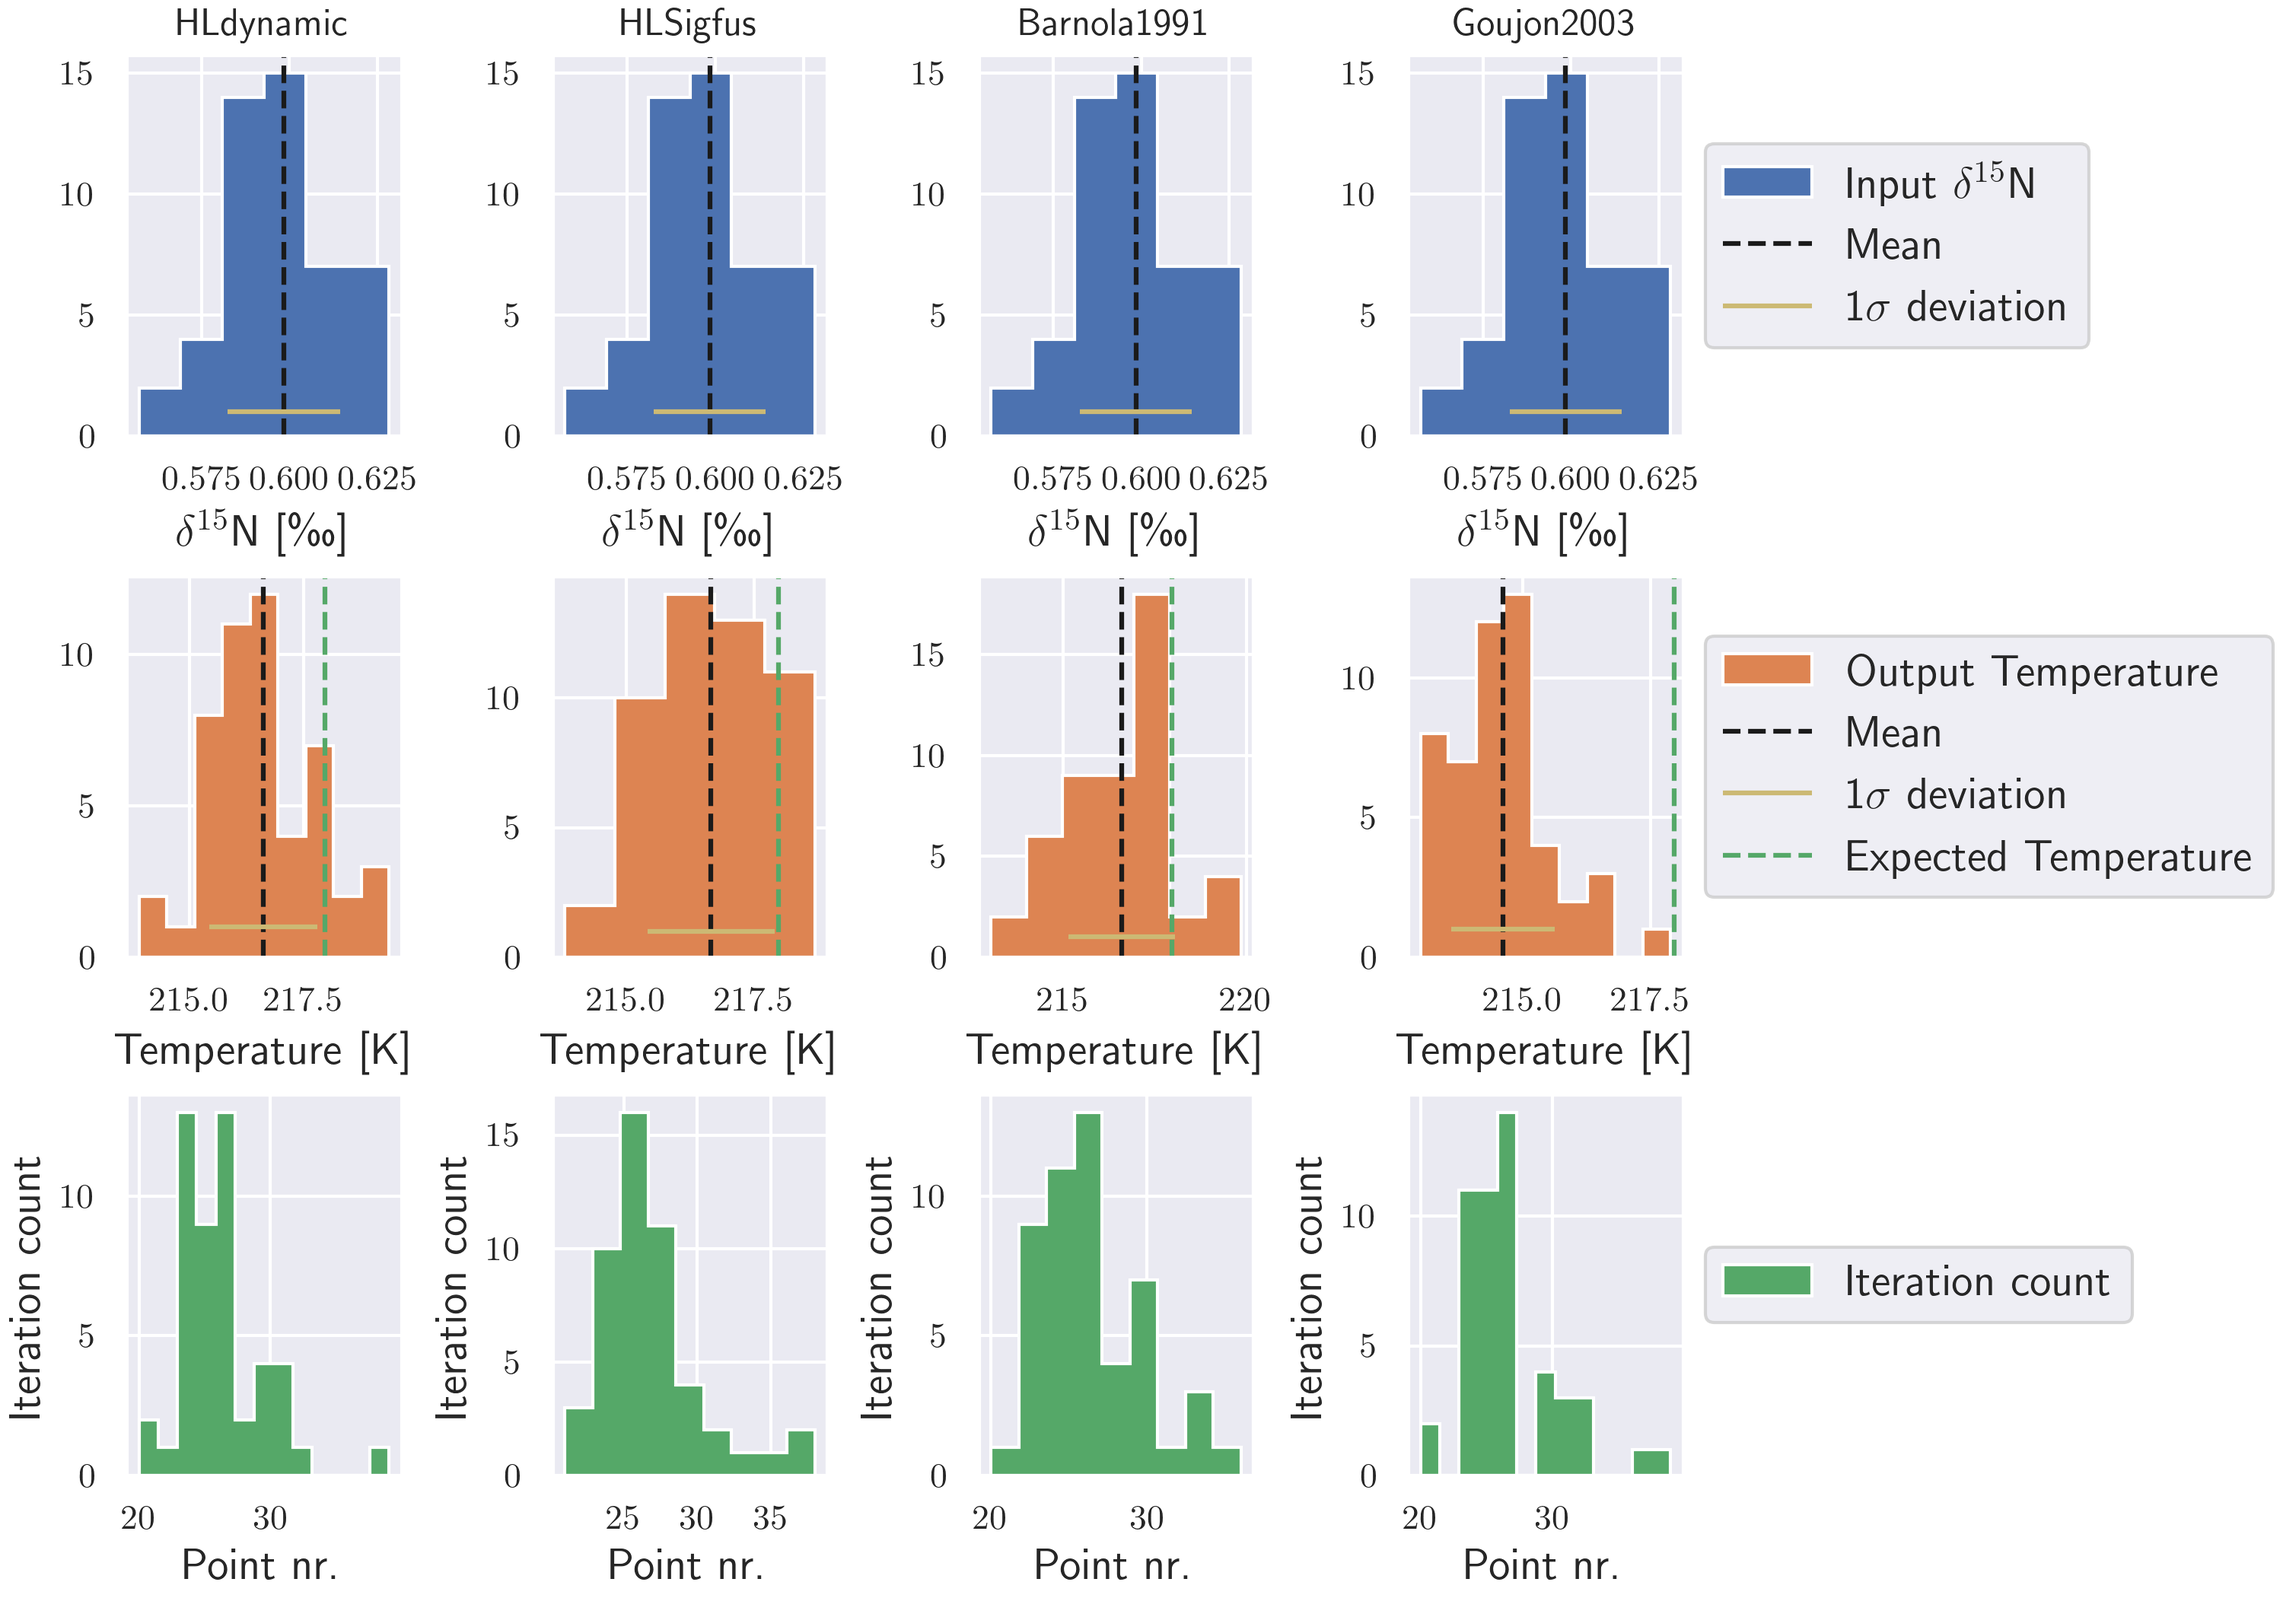
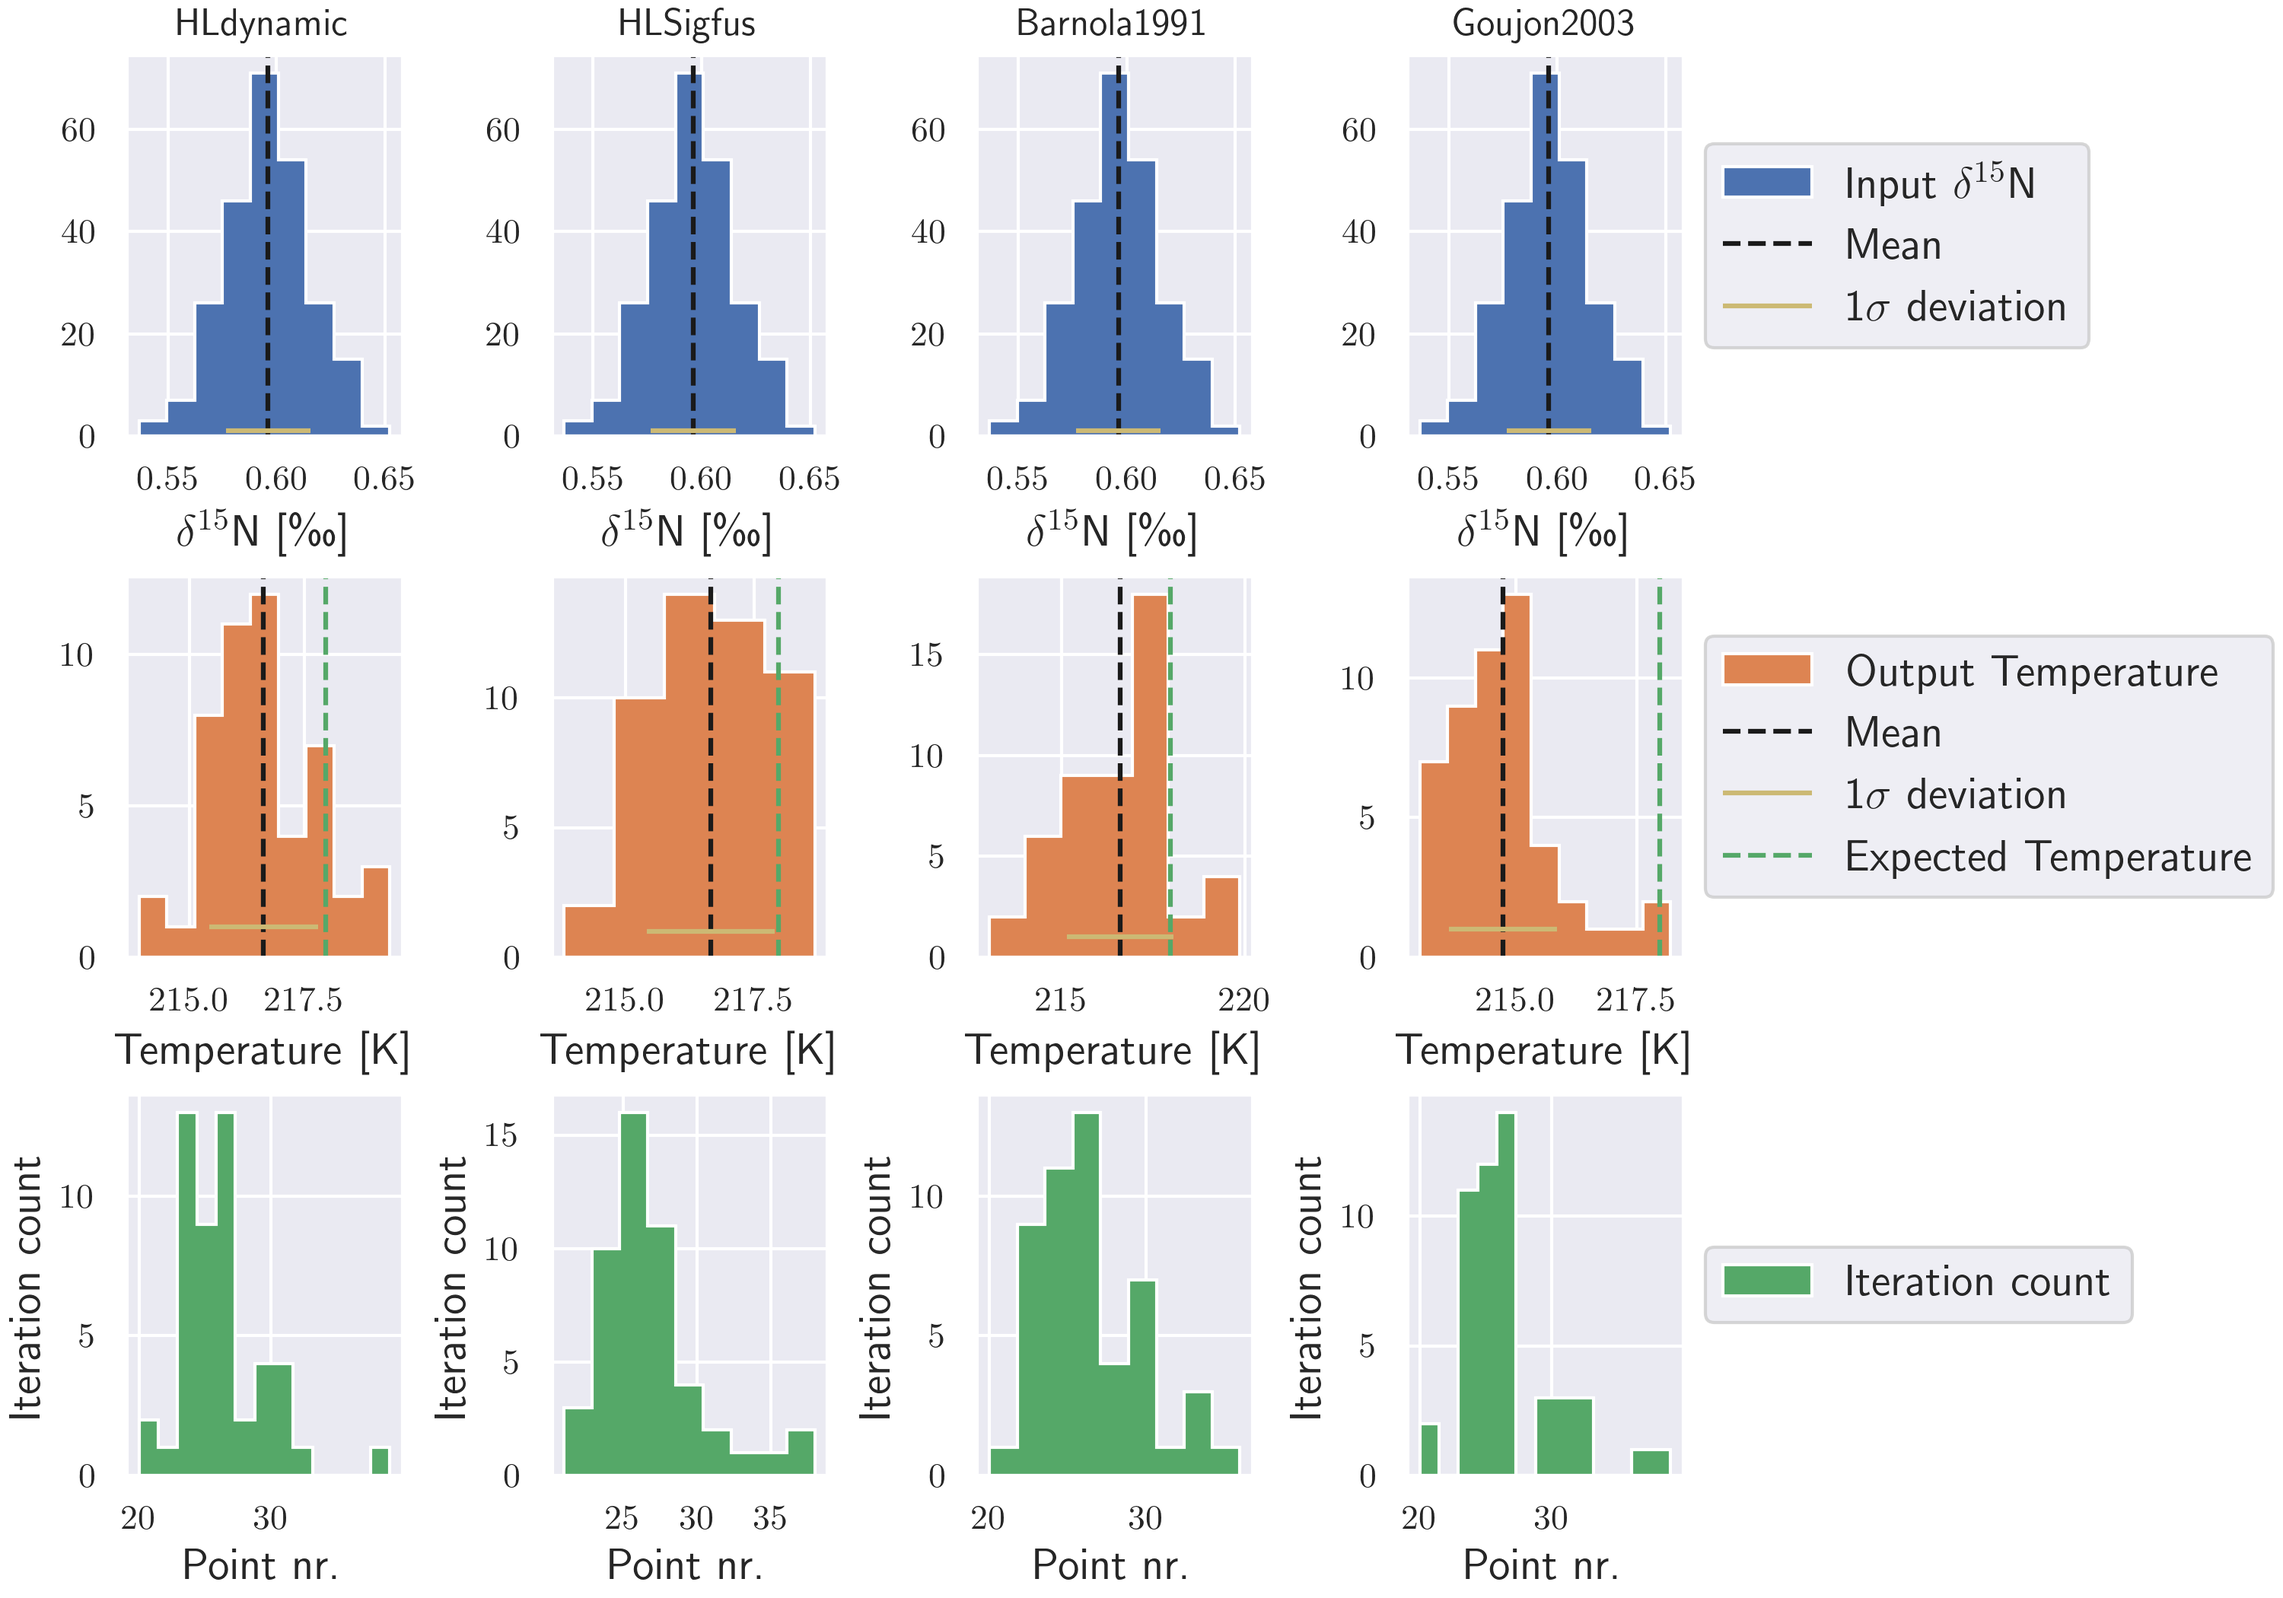
Test

diff --git a/Python/Optimization/Stuff.tex b/Python/Optimization/Stuff.tex
@@ -8,13 +8,13 @@
  &  & Mean & $\sigma$ & Mean & $\sigma$ & Mean & $\sigma$ & Mean & $\sigma$ \\
 \midrule
 \multirow[c]{4}{*}{Temp} & Dist1 & 221.01 & 1.4 & 221.27 & 1.4 & 220.84 & 1.6 & 219.05 & 1.4 \\
- & Dist2 & 216.61 & 1.2 & 216.65 & 1.2 & 216.6 & 1.4 & 214.62 & 1.0 \\
+ & Dist2 & 216.61 & 1.2 & 216.65 & 1.2 & 216.6 & 1.4 & 214.73 & 1.1 \\
  & Dist3 & 236.22 & 2.7 & 236.16 & 2.4 & 235.63 & 2.0 & 218.01 & 55.7 \\
- & Dist4 & 247.54 & 5.0 & 248.6 & 4.9 & 247.5 & 3.9 & 218.03 & 73.5 \\
-\multirow[c]{4}{*}{Nitrogen} & Dist1 & 0.525 & 0.02 & 0.525 & 0.02 & 0.525 & 0.02 & 0.525 & 0.02 \\
- & Dist2 & 0.598 & 0.02 & 0.598 & 0.02 & 0.598 & 0.02 & 0.598 & 0.02 \\
- & Dist3 & 0.374 & 0.02 & 0.374 & 0.02 & 0.374 & 0.02 & 0.374 & 0.02 \\
- & Dist4 & 0.299 & 0.02 & 0.299 & 0.02 & 0.299 & 0.02 & 0.299 & 0.02 \\
+ & Dist4 & 247.62 & 4.8 & 248.57 & 5.0 & 247.5 & 3.9 & 218.03 & 73.5 \\
+\multirow[c]{4}{*}{Nitrogen} & Dist1 & 0.53 & 0.02 & 0.53 & 0.02 & 0.53 & 0.02 & 0.53 & 0.02 \\
+ & Dist2 & 0.596 & 0.02 & 0.596 & 0.02 & 0.596 & 0.02 & 0.596 & 0.02 \\
+ & Dist3 & 0.373 & 0.02 & 0.373 & 0.02 & 0.373 & 0.02 & 0.373 & 0.02 \\
+ & Dist4 & 0.297 & 0.02 & 0.297 & 0.02 & 0.297 & 0.02 & 0.297 & 0.02 \\
 \bottomrule
 \end{tabular}
 \end{table}

diff --git a/Python/Optimization/Dist_plot.py b/Python/Optimization/Dist_plot.py
@@ -51,8 +51,8 @@ mus = np.zeros((4,8))
 mus_1 = np.zeros((4,8))
 # Loop over H5 files and load into a dataframe
 for i in range(len(Dist)):
-    s = np.random.normal(Point_N[i],0.02,size=50)
-    Data_d15N = s[(abs(s - s.mean())) < (3 * s.std())][:50]
+    s = np.random.normal(Point_N[i],0.02,size=2000)
+    Data_d15N = s[(abs(s - s.mean())) < (3 * s.std())][:250]
 
     fig, ax = plt.subplots(nrows=3,ncols=4,figsize=(10, 7), constrained_layout=True)
     for j in range(len(Models)):
